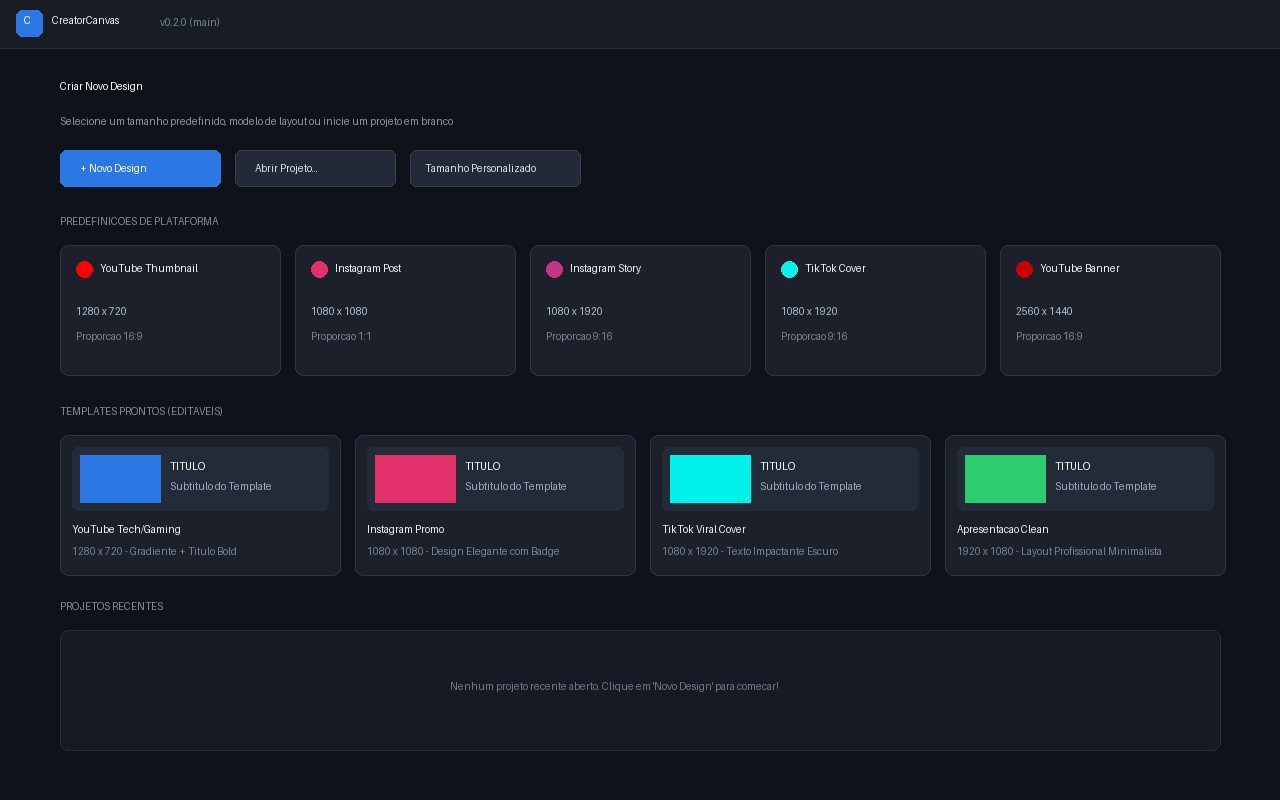
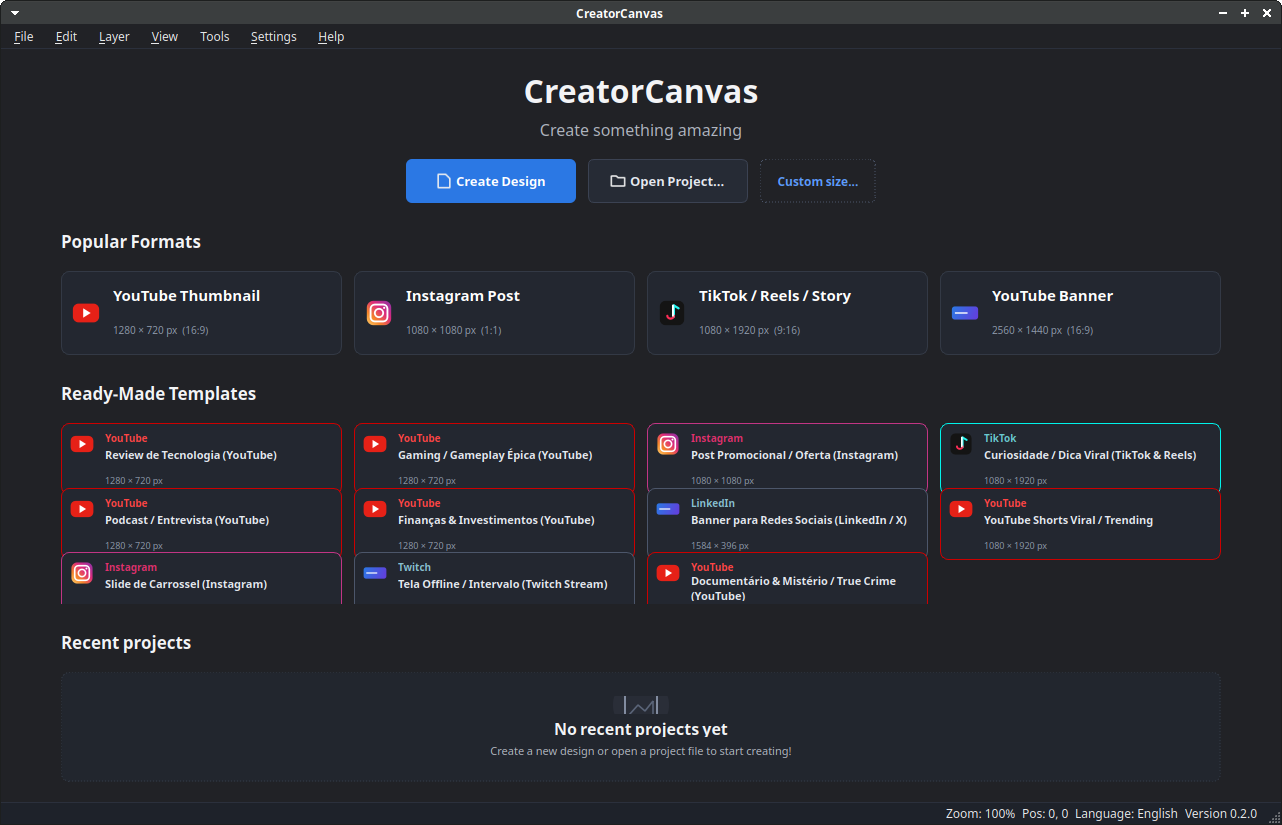
Add dark mode and template screenshots

diff --git a/README.md b/README.md
@@ -24,6 +24,19 @@ A fast, layer-based image editor designed specifically for digital content creat
 
 *Free-form selection over the canvas with live perspective placement and preview controls.*
 
+<br/>
+
+![CreatorCanvas Template Canvas](docs/images/template_canvas.png)
+
+*Editable template canvas with typography, badges, image slots, and a dark workspace.*
+
+<br/>
+
+![CreatorCanvas Start Screen](docs/images/start_screen.png)
+
+*Welcome & Start Screen: Preset cards for YouTube/Instagram/TikTok, ready-to-edit templates, and recent project thumbnails.*
+
+---
 ## Key Features
 
 - **Layer-Based Compositing** — Support for Image, Text, Shape, Group, and Background layers with Photoshop-style drag-and-drop reordering, visibility, locking, opacity, and blend modes.
